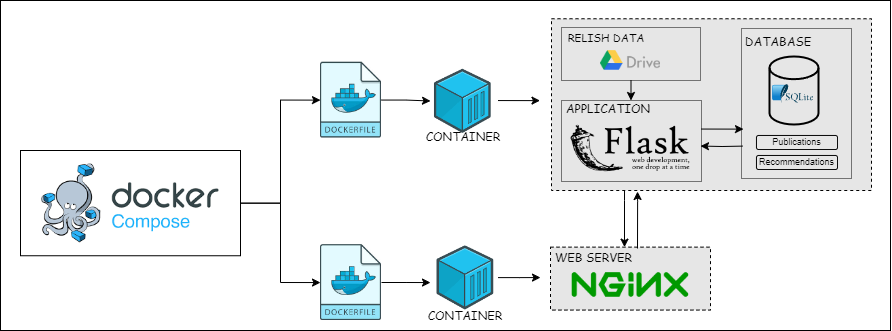
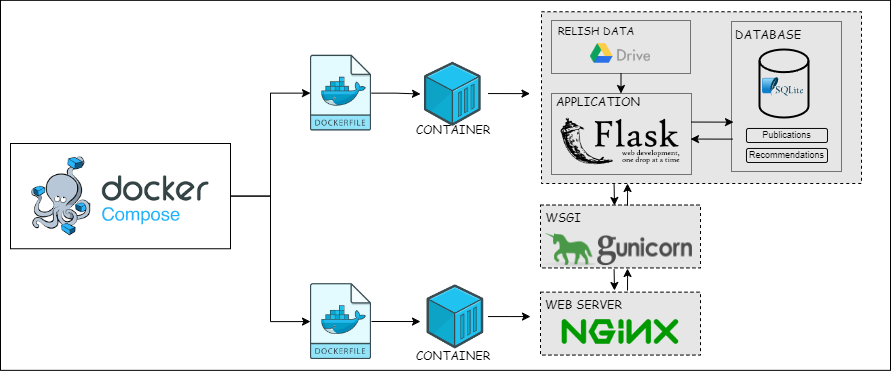
✨ update README

Changed region(s): [[0.0, 0.0, 1.0, 1.0], [0.0, 0.3625, 0.2727, 0.3927], [0.0303, 0.7553, 0.2727, 0.7855]]

diff --git a/README.md b/README.md
@@ -2,22 +2,55 @@
 
 This repository consists of code for a mock recommendation system designed for internal learning purposes to understand the STELLA architecture and its integration potential for recommendation systems in production and utilizes the RELISH corpus. 
 
-## Developer Documentation
 
 ### Table of Contents
 
+1. [About the RELISH Corpus](#about-the-relish-corpus)
+    + [Data Source and Characteristics](#data-source-and-characteristics)
+    + [Relevance Assessment](#relevance-assessment)
+    + [Input Data](#input-data)
 1. [Technical Architecture](#technical-architecture)
 2. [Database Schema](#database-schema)
-3. [Setting Up the Development Environment](#setting-up-the-development-environment)
+3. [Developer Documentation](#developer-documentation)
     + [Installing Docker](#1-installing-docker)
     + [Cloning the Repository](#2-cloning-the-repository)
+    + [Creating a virtual environment](#3-creating-a-virtual-environment)
     + [Building and Running the Docker Container](#3-building-and-running-the-docker-container)
     + [Accessing the Application](#4-accessing-the-system)
+    + [Retrieving System Logs](#6-retrieving-system-logs)
+
+
+## About the RELISH Corpus
+The Mock Recommendation System leverages the RELISH corpus as its primary dataset. RELISH stands for "Resource for Evaluating Literature in Similarity Search and other Text-handling tasks". It is an expert-curated database specifically designed for benchmarking document similarity in biomedical literature.
+ 
+The RELISH corpus comprises a expert curated collection of biomedical literature documents along with assessments of their similarity to other documents within the corpus. Each document is identified by its unique PubMed Identifier (PMID), a standardized identifier used for referencing biomedical literature.
+
+### Data Source and Characteristics
+The version 1 of the RELISH corpus was retrieved from its corresponding FigShare record on the 24th of January 2022. It is structured as a JSON file containing pairs of PMIDs along with their relevance assessments concerning other PMIDs in the corpus.
+
+### Relevance Assessment
+For each pair of PMIDs, the relevance is categorized into three main classes:
+
++ **Relevant (2)** : Indicates a strong relevance between the two documents.
++ **Partially relevant (1)** : Suggests a moderate level of relevance between the documents.
++ **Irrelevant (0)** : Denotes a lack of meaningful relevance between the documents.
+
+### Input Data
+
+Based on the RELISH JSON file, we created two input files:
++ **relish_text.jsonl** : Contains each article within the RELISH corpus with its corresponding title and abstract.
++ **relish_recoms.jsonl** : Contains pairwise assessments between each reference document and assessed document along with a relevance score. The article recommendations in our system follow the order in which the articles appear in the RELISH Database JSON file.
+
+These files were created using the code in this [folder](./code). Please refer to the [documentation](./code/execution.md) in this folder for executing the script. For ease of use, the data is hosted on Google Drive and is retrieved using a bash script within the Docker container.
+
 
 ## Technical Architecture
 The Mock Recommendation System is a Flask-based web application running inside Docker containers, with a SQLite3 database backend. The application provides a simple recommendation interface, styled using CSS and HTML.
 
-The Docker setup uses Docker Compose to manage two containers: one for the web application and one for Nginx. The web application container runs the actual Flask application, downloading the RELISH dataset from the specified drive and placing it in the appropriate directory. It then sets up, migrates, and populates the SQLite database before starting the Flask web application. The Nginx container handles the reverse proxy, routing incoming HTTP requests to the Flask application container. This setup ensures a consistent and isolated environment for development and deployment. The application workflow involves the web application container initializing by downloading the RELISH dataset, setting up and migrating the SQLite database, populating the database with initial data, and starting the Flask web server. The Nginx container acts as a reverse proxy, handling incoming requests and forwarding them to the Flask application.
+The Docker setup uses Docker Compose to manage two containers: one for the web application and one for Nginx and Gunicorn. 
++ The web application container runs the actual Flask application, downloading the RELISH dataset from the specified drive and placing it in the appropriate directory. It then sets up, migrates, and populates the SQLite database before starting the Flask web application. 
+
++ The Nginx and Gunicorn container handles the reverse proxy and the application server. Nginx serves as the reverse proxy, routing incoming HTTP requests to the Gunicorn server running the Flask application.
 
 ![architecture](docs/architecture.png)
 
@@ -27,11 +60,17 @@ The Docker setup uses Docker Compose to manage two containers: one for the web a
 The SQLite3 database schema consists of two tables: Publications and Recommendations.
 
 ### Publications Table
+
+The data from **'relish_text.jsonl'** is used to populate this table.
+
 + PMID: Primary key, unique identifier for each publication (integer).
 + title: The title of the publication (string).
 + abstract: The abstract of the publication (string).
 
 ### Recommendations Table
+
+The data from **'relish_recoms.jsonl'** is used to populate this table. 
+
 + PMID: Foreign key, references PMID in the Publications table, part of the composite primary key (integer).
 + recom_number: Primary key, unique identifier for each recommendation per + publication, part of the composite primary key (integer).
 + target_pmid: The PMID of the target publication that is being recommended (string).
@@ -40,9 +79,9 @@ The SQLite3 database schema consists of two tables: Publications and Recommendat
 
 ![schema](docs/schema.png)
 
-## Setting Up the Development Environment
+## Developer Documentation
 
-To set up the Mock Recommendation System on your local machine, follow these steps:
+To deploy the Mock Recommendation System on an Ubuntu server, follow these steps:
 
 ### 1. Installing Docker
 
@@ -89,12 +128,31 @@ sudo docker run hello-world
 
 Clone the Mock Recommendation System repository from GitHub:
 
+###### Using HTTP:
+
 ```
 git clone https://github.com/zbmed-semtec/mock_recommendation_system.git
-cd repository
+cd mock_recommendation_system
 ```
 
-### 3. Building and Running the Docker Container
+###### Using SSH:
+Ensure you have set up SSH keys in your GitHub account.
+
+```
+git@github.com:zbmed-semtec/mock_recommendation_system.git
+cd mock_recommendation_system
+```
+
+### 3. Creating a virtual environment
+
+To create a virtual environment within your repository, run the following command:
+
+```
+python3 -m venv .venv 
+source .venv/bin/activate
+```
+
+### 4. Building and Running the Docker Container
 
 To build and start the containers, run the following command:
 
@@ -108,7 +166,30 @@ To check if the containers are working as required, you could run the following 
 sudo docker container ps -a
 ```
 
+### 5. Accessing the System
+Once the system is up and running, you can access it using your web browser at the server's IP address.
+
+Based on the server, please update the [`nginx.conf`](./nginx/nginx.conf) file to include the correct IP address:
 
 
-### 4. Accessing the System
-Once the system is up and running, you can access it using your web browser at http://localhost:5000.
+```
+server {
+
+    listen 80;
+    server_name <server's IP address>;
+    client_max_body_size 200M;
+
+    location / {
+        proxy_pass http://web:5000;
+        proxy_set_header Host $host;
+        proxy_set_header X-Real-IP $remote_addr;
+        proxy_set_header X-Forwarded-For $proxy_add_x_forwarded_for;
+        proxy_set_header X-Forwarded-Proto $scheme;
+    }
+}
+
+```
+
+### 6. Retrieving System logs
+
+Docker handles the log files using volumes, the log directory and file will be created on your host machine. The log file will be named **'system.log'**. To access the logs, navigate to the logs directory in your project folder on the host machine.
